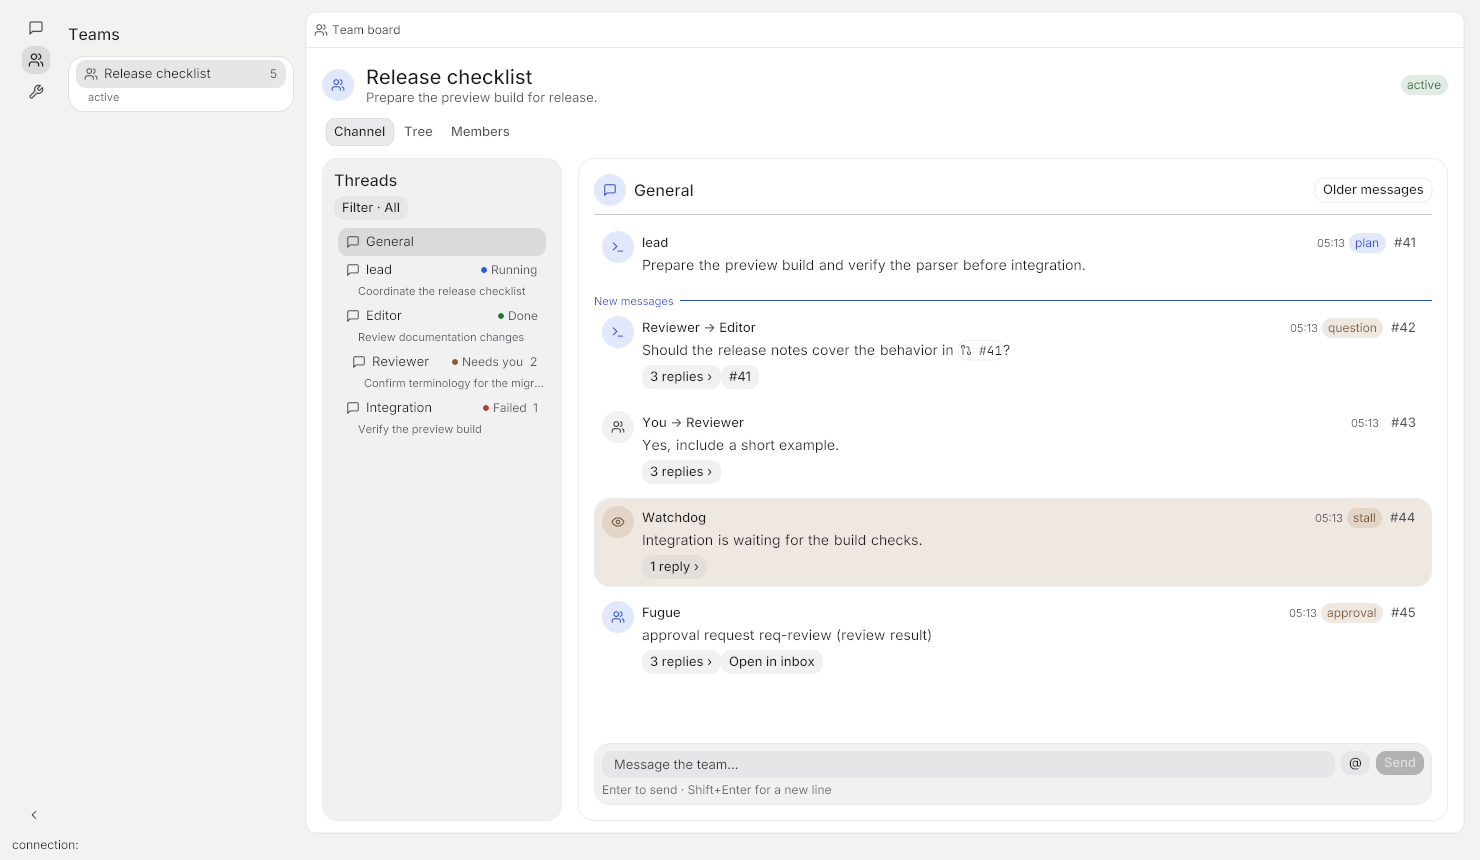
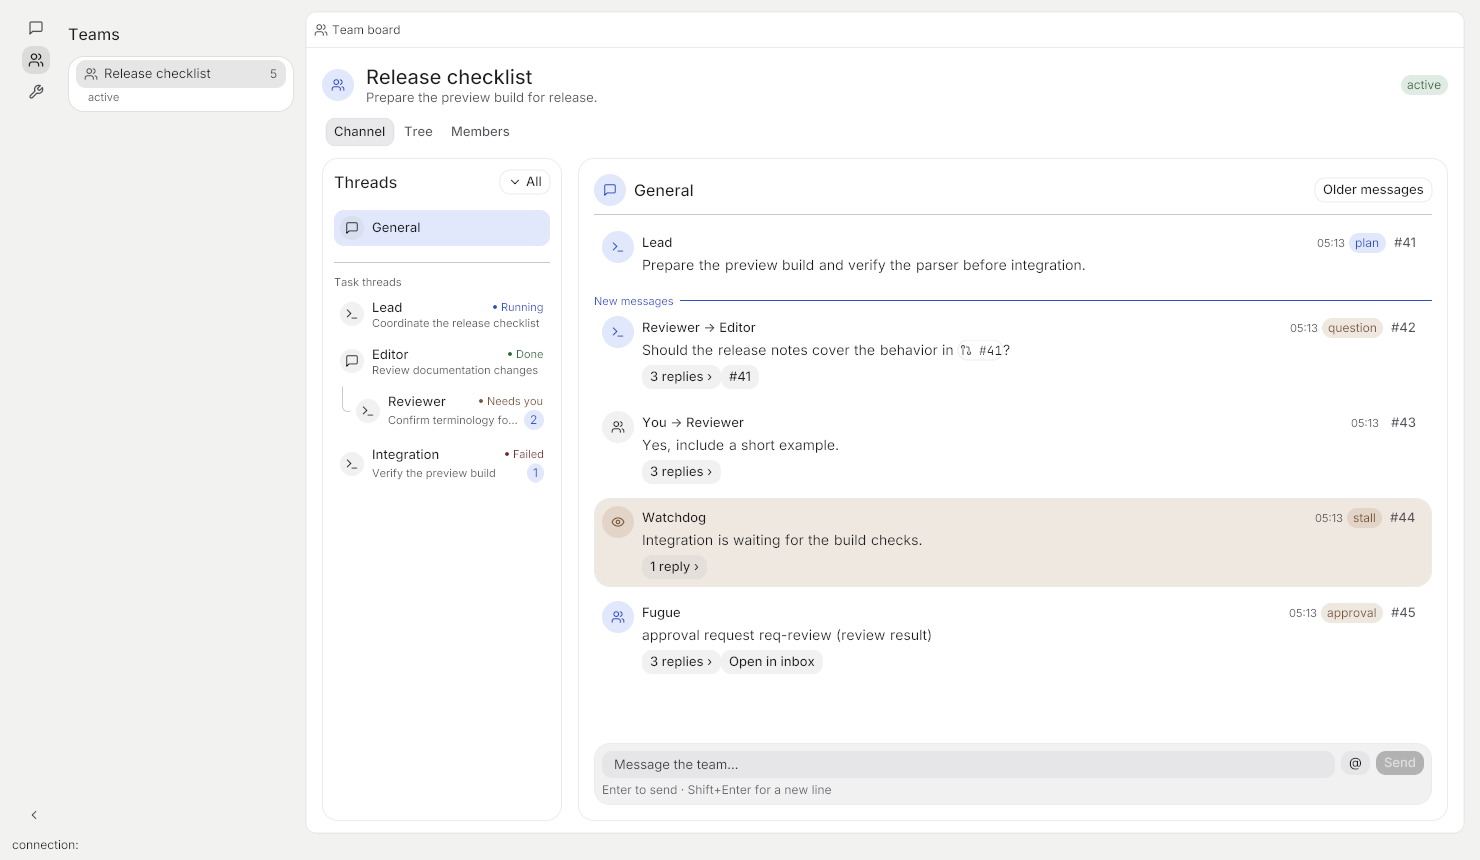
fix(ui): refine team threads and round tree connectors (FUG-19)

Changed region(s): [[0.2176, 0.2116, 0.373, 0.5442], [0.4351, 0.2721, 0.4662, 0.3023], [0.2797, 0.5442, 0.3108, 0.5744]]

diff --git a/ui/internal/appwin/team_channel_threads.go b/ui/internal/appwin/team_channel_threads.go
@@ -1,0 +1,196 @@
+package appwin
+
+import (
+	"image"
+	"slices"
+	"strconv"
+
+	"gioui.org/io/semantic"
+	"gioui.org/layout"
+	"gioui.org/op/clip"
+	"gioui.org/op/paint"
+	"gioui.org/unit"
+	"gioui.org/widget"
+
+	"github.com/syurodev/fugue/ui/internal/kit"
+	"github.com/syurodev/fugue/ui/internal/theme"
+)
+
+type channelThreadRowState struct {
+	click  widget.Clickable
+	unread *kit.TagState
+}
+
+func (s *screens) layoutChannelThreads(gtx *layout.Context, env *kit.Env, p *teamChannelPane, threads []teamChannelThread, data *teamChannelData) layout.Dimensions {
+	visible := slices.DeleteFunc(slices.Clone(threads), func(row teamChannelThread) bool {
+		return !filterChannelThread(p.filter, row.node.State)
+	})
+	return layout.Flex{Axis: layout.Vertical}.Layout(*gtx,
+		rigidWidget(func(g *layout.Context) layout.Dimensions { return s.layoutChannelThreadHeader(g, env, p) }),
+		spacerH(theme.SpaceXL),
+		rigidWidget(func(g *layout.Context) layout.Dimensions {
+			return s.layoutChannelThreadRow(g, env, p, teamChannelThread{}, data.unread[""])
+		}),
+		spacerH(theme.SpaceLG),
+		rigidWidget(func(g *layout.Context) layout.Dimensions {
+			return kit.Divider(env, g, kit.DividerProps{Orientation: kit.Horizontal})
+		}),
+		spacerH(theme.SpaceLG),
+		rigidParagraph(env, theme.TypeCaption(), env.Th.Chrome().FgMuted, "Task threads"),
+		spacerH(theme.SpaceXS),
+		layout.Flexed(1, func(g layout.Context) layout.Dimensions {
+			if len(visible) == 0 {
+				return teamText(&g, env, "No matching threads")
+			}
+			return p.threadList.Layout(g, len(visible), func(g layout.Context, i int) layout.Dimensions {
+				row := visible[i]
+				return s.layoutChannelThreadRow(&g, env, p, row, data.unread[row.id])
+			})
+		}),
+	)
+}
+
+func (s *screens) layoutChannelThreadHeader(gtx *layout.Context, env *kit.Env, p *teamChannelPane) layout.Dimensions {
+	return layout.Flex{Alignment: layout.Middle}.Layout(*gtx,
+		layout.Flexed(1, func(g layout.Context) layout.Dimensions {
+			return teamFillLabel(&g, env, theme.TypeHeading(), env.Th.Chrome().Fg, "Threads")
+		}),
+		rigidWidget(func(g *layout.Context) layout.Dimensions { return s.layoutChannelFilter(g, env, p) }),
+	)
+}
+
+func (s *screens) layoutChannelThreadRow(gtx *layout.Context, env *kit.Env, p *teamChannelPane, row teamChannelThread, unread int) layout.Dimensions {
+	state := p.threadRows[row.id]
+	if state == nil {
+		state = &channelThreadRowState{unread: kit.NewTagState()}
+		p.threadRows[row.id] = state
+	}
+	indent := theme.SpaceXL * unit.Dp(min(row.depth, 3))
+	dims := layout.Inset{Left: indent, Bottom: theme.SpaceXS}.Layout(*gtx, func(g layout.Context) layout.Dimensions {
+		g.Constraints.Min.X = g.Constraints.Max.X
+		if state.click.Clicked(g) {
+			p.switchThread(row.id)
+		}
+		selected := row.id == p.thread
+		return state.click.Layout(g, func(g layout.Context) layout.Dimensions {
+			semantic.Button.Add(g.Ops)
+			semantic.SelectedOp(selected).Add(g.Ops)
+			return s.layoutChannelThreadCard(&g, env, state, row, selected, unread)
+		})
+	})
+	if indent > 0 {
+		edge := gtx.Dp(indent)
+		paintTeamElbow(gtx, env.Th.Chrome().Border, edge-gtx.Dp(theme.SpaceMD), (dims.Size.Y-gtx.Dp(theme.SpaceXS))/2, edge)
+	}
+	return dims
+}
+
+func (s *screens) layoutChannelThreadCard(gtx *layout.Context, env *kit.Env, state *channelThreadRowState, row teamChannelThread, selected bool, unread int) layout.Dimensions {
+	bg := func(g layout.Context) layout.Dimensions {
+		ch := env.Th.Chrome()
+		bounds := image.Rectangle{Max: g.Constraints.Min}
+		shape := clip.UniformRRect(bounds, g.Dp(theme.RadiusMD))
+		switch {
+		case selected:
+			paint.FillShape(g.Ops, env.Th.StatusTone(theme.StatusInfo).Fill, shape.Op(g.Ops))
+		case state.click.Hovered():
+			paint.FillShape(g.Ops, ch.HoverWash, shape.Op(g.Ops))
+		}
+		if env.FocusVisible(&g, &state.click) {
+			paint.FillShape(g.Ops, ch.FocusBorder, clip.Stroke{Path: shape.Path(g.Ops), Width: float32(max(1, g.Dp(theme.Hairline)))}.Op())
+		}
+		return layout.Dimensions{Size: g.Constraints.Min}
+	}
+	return layout.Background{}.Layout(*gtx, bg, func(g layout.Context) layout.Dimensions {
+		return layout.Inset{Top: theme.SpaceSM, Bottom: theme.SpaceSM, Left: theme.SpaceSM, Right: theme.SpaceSM}.Layout(g, func(g layout.Context) layout.Dimensions {
+			return s.layoutChannelThreadContent(&g, env, state, row, unread)
+		})
+	})
+}
+
+func (s *screens) layoutChannelThreadContent(gtx *layout.Context, env *kit.Env, state *channelThreadRowState, row teamChannelThread, unread int) layout.Dimensions {
+	ch := env.Th.Chrome()
+	name, icon := channelGeneral, kit.IconMessageSquare
+	if row.node != nil {
+		name, icon = channelRole(row.node), teamVendorIcon(row.node.Vendor)
+	}
+	return layout.Flex{Alignment: layout.Middle}.Layout(*gtx,
+		rigidWidget(func(g *layout.Context) layout.Dimensions {
+			return teamAvatarAtSize(g, env, icon, env.Th.NeutralTone(), theme.ControlSM)
+		}),
+		spacerW(theme.SpaceMD),
+		layout.Flexed(1, func(g layout.Context) layout.Dimensions {
+			if row.node == nil {
+				return layout.Flex{Alignment: layout.Middle}.Layout(g,
+					layout.Flexed(1, func(g layout.Context) layout.Dimensions {
+						return teamFillLabel(&g, env, theme.TypeLabel(), ch.Fg, name)
+					}),
+					s.threadUnreadBadge(env, state, unread),
+				)
+			}
+			return s.layoutChannelTaskText(&g, env, state, row, unread)
+		}),
+	)
+}
+
+func (s *screens) layoutChannelTaskText(gtx *layout.Context, env *kit.Env, state *channelThreadRowState, row teamChannelThread, unread int) layout.Dimensions {
+	ch := env.Th.Chrome()
+	label, tone := channelThreadStatus(row.node.State)
+	return layout.Flex{Axis: layout.Vertical}.Layout(*gtx,
+		rigidWidget(func(g *layout.Context) layout.Dimensions {
+			return layout.Flex{Alignment: layout.Middle}.Layout(*g,
+				layout.Flexed(1, func(g layout.Context) layout.Dimensions {
+					return teamFillLabel(&g, env, theme.TypeLabel(), ch.Fg, channelRole(row.node))
+				}),
+				spacerW(theme.SpaceSM),
+				rigidWidget(func(g *layout.Context) layout.Dimensions { return layoutThreadStatusLabel(g, env, label, tone) }),
+			)
+		}),
+		rigidWidget(func(g *layout.Context) layout.Dimensions {
+			return layout.Flex{Alignment: layout.Middle}.Layout(*g,
+				layout.Flexed(1, func(g layout.Context) layout.Dimensions {
+					return teamFillLabel(&g, env, theme.TypeCaption(), ch.FgMuted, row.node.Goal)
+				}),
+				s.threadUnreadBadge(env, state, unread),
+			)
+		}),
+	)
+}
+
+func (s *screens) threadUnreadBadge(env *kit.Env, state *channelThreadRowState, unread int) layout.FlexChild {
+	return rigidWidget(func(g *layout.Context) layout.Dimensions {
+		if unread == 0 {
+			return layout.Dimensions{}
+		}
+		return layout.Inset{Left: theme.SpaceSM}.Layout(*g, func(g layout.Context) layout.Dimensions {
+			dims, err := state.unread.Layout(env, &g, kit.TagProps{Text: strconv.Itoa(unread), Variant: kit.TagStatus, Status: theme.StatusInfo})
+			s.fail(err)
+			return dims
+		})
+	})
+}
+
+func layoutThreadStatusLabel(gtx *layout.Context, env *kit.Env, label string, tone kit.ListRowTone) layout.Dimensions {
+	ink := env.Th.Chrome().IconMuted
+	switch tone {
+	case kit.ToneInfo:
+		ink = env.Th.StatusTone(theme.StatusInfo).Fg
+	case kit.ToneSuccess:
+		ink = env.Th.StatusTone(theme.StatusSuccess).Fg
+	case kit.ToneWarning:
+		ink = env.Th.StatusTone(theme.StatusWarning).Fg
+	case kit.ToneDanger:
+		ink = env.Th.StatusTone(theme.StatusDanger).Fg
+	case kit.ToneNeutral:
+	}
+	return layout.Flex{Alignment: layout.Middle}.Layout(*gtx,
+		layout.Rigid(func(g layout.Context) layout.Dimensions {
+			r := max(1, g.Dp(theme.SpaceXXS))
+			size := image.Pt(2*r, 2*r)
+			paint.FillShape(g.Ops, ink, clip.UniformRRect(image.Rectangle{Max: size}, r).Op(g.Ops))
+			return layout.Dimensions{Size: size}
+		}),
+		spacerW(theme.SpaceXS),
+		rigidParagraph(env, theme.TypeCaption(), ink, label),
+	)
+}

diff --git a/ui/internal/appwin/team_channel.go b/ui/internal/appwin/team_channel.go
@@ -7,10 +7,8 @@ import (
 	"strings"
 
 	"gioui.org/layout"
-	"gioui.org/op"
 	"gioui.org/op/clip"
 	"gioui.org/op/paint"
-	"gioui.org/unit"
 
 	"github.com/syurodev/fugue/pkg/client"
 
@@ -47,7 +45,7 @@ func (s *screens) layoutTeamChannel(gtx *layout.Context, env *kit.Env, view *cli
 		layout.Rigid(func(g layout.Context) layout.Dimensions {
 			g.Constraints.Max.X = min(g.Constraints.Max.X, g.Dp(theme.SidebarWidth))
 			g.Constraints.Min.X = g.Constraints.Max.X
-			return teamPanel(g, env, env.Th.Chrome().FillSoft, layout.UniformInset(theme.SpaceLG), func(g layout.Context) layout.Dimensions {
+			return teamPanel(g, env, env.Th.Chrome().SurfaceBase, layout.UniformInset(theme.SpaceLG), func(g layout.Context) layout.Dimensions {
 				g.Constraints.Min.Y = g.Constraints.Max.Y
 				return s.layoutChannelThreads(&g, env, p, threads, &data)
 			})
@@ -55,27 +53,6 @@ func (s *screens) layoutTeamChannel(gtx *layout.Context, env *kit.Env, view *cli
 		spacerW(theme.SpaceXL),
 		layout.Flexed(1, func(g layout.Context) layout.Dimensions {
 			return s.layoutChannelConversation(&g, env, view, p, threads, &data)
-		}),
-	)
-}
-
-func (s *screens) layoutChannelThreads(gtx *layout.Context, env *kit.Env, p *teamChannelPane, threads []teamChannelThread, data *teamChannelData) layout.Dimensions {
-	return layout.Flex{Axis: layout.Vertical}.Layout(*gtx,
-		rigidParagraph(env, theme.TypeHeading(), env.Th.Chrome().Fg, "Threads"),
-		spacerH(theme.SpaceSM),
-		rigidWidget(func(g *layout.Context) layout.Dimensions { return s.layoutChannelFilter(g, env, p) }),
-		spacerH(theme.SpaceMD),
-		rigidWidget(func(g *layout.Context) layout.Dimensions {
-			return s.layoutChannelThreadRow(g, env, p, teamChannelThread{}, data)
-		}),
-		layout.Flexed(1, func(g layout.Context) layout.Dimensions {
-			return p.threadList.Layout(g, len(threads), func(g layout.Context, i int) layout.Dimensions {
-				row := threads[i]
-				if !filterChannelThread(p.filter, row.node.State) {
-					return layout.Dimensions{}
-				}
-				return s.layoutChannelThreadRow(&g, env, p, row, data)
-			})
 		}),
 	)
 }
@@ -88,7 +65,10 @@ func (s *screens) layoutChannelFilter(gtx *layout.Context, env *kit.Env, p *team
 			label = item.Label
 		}
 	}
-	return s.layoutChannelMenu(gtx, env, p.filterButton, p.filterMenu, "Filter · "+label, choices, func(id string) { p.filter = id })
+	return s.layoutChannelMenu(gtx, env, p.filterButton, p.filterMenu, label, choices, func(id string) {
+		p.threadList.Position = layout.Position{}
+		p.filter = id
+	})
 }
 
 func (s *screens) layoutChannelThreadMenu(gtx *layout.Context, env *kit.Env, p *teamChannelPane, threads []teamChannelThread, data *teamChannelData) layout.Dimensions {
@@ -121,7 +101,7 @@ func (s *screens) layoutChannelThreadMenu(gtx *layout.Context, env *kit.Env, p *
 }
 
 func (s *screens) layoutChannelMenu(gtx *layout.Context, env *kit.Env, button *kit.ButtonState, menu *kit.MenuState, text string, items []kit.MenuItem, choose func(string)) layout.Dimensions {
-	props := kit.ButtonProps{Text: text, Size: kit.SizeSM}
+	props := kit.ButtonProps{Text: text, Icon: kit.IconChevronDown, Variant: kit.Bordered, Size: kit.SizeSM}
 	clicked, err := button.Layout(env, gtx, props)
 	s.fail(err)
 	dims := button.Measure(env, gtx, props)
@@ -134,40 +114,6 @@ func (s *screens) layoutChannelMenu(gtx *layout.Context, env *kit.Env, button *k
 		choose(event.Chosen)
 	}
 	return dims
-}
-
-func (s *screens) layoutChannelThreadRow(gtx *layout.Context, env *kit.Env, p *teamChannelPane, row teamChannelThread, data *teamChannelData) layout.Dimensions {
-	state := p.threadRows[row.id]
-	if state == nil {
-		state = kit.NewListRowState()
-		state.Enter()
-		p.threadRows[row.id] = state
-	}
-	props := kit.ListRowProps{Label: channelGeneral, Icon: kit.IconMessageSquare, Selected: row.id == p.thread}
-	if row.node != nil {
-		props.Label = channelRole(row.node)
-		props.StateLabel, props.StateTone = channelThreadStatus(row.node.State)
-	}
-	if unread := data.unread[row.id]; unread > 0 {
-		props.Trailing = strconv.Itoa(unread)
-	}
-	return layout.Inset{Left: theme.SpaceSM * unit.Dp(min(row.depth, 3))}.Layout(*gtx, func(g layout.Context) layout.Dimensions {
-		dims, ev := state.Layout(env, &g, &props)
-		s.fail(ev.Err)
-		if ev.Clicked {
-			p.switchThread(row.id)
-		}
-		if row.node == nil {
-			return dims
-		}
-		g.Constraints.Min.X = 0
-		offset := op.Offset(image.Pt(0, dims.Size.Y)).Push(g.Ops)
-		defer offset.Pop()
-		caption := layout.Inset{Left: theme.ControlSM, Right: theme.SpaceSM, Bottom: theme.SpaceXS}.Layout(g, func(g layout.Context) layout.Dimensions {
-			return kit.EllipsisLabel(env, &g, theme.TypeCaption(), env.Th.Chrome().FgMuted, row.node.Goal)
-		})
-		return layout.Dimensions{Size: image.Pt(dims.Size.X, dims.Size.Y+caption.Size.Y)}
-	})
 }
 
 func (s *screens) layoutChannelConversation(gtx *layout.Context, env *kit.Env, view *client.TeamView, p *teamChannelPane, threads []teamChannelThread, data *teamChannelData) layout.Dimensions {

diff --git a/ui/internal/appwin/team_surfaces.go b/ui/internal/appwin/team_surfaces.go
@@ -4,9 +4,11 @@ import (
 	"image"
 	"image/color"
 
+	"gioui.org/f32"
 	"gioui.org/layout"
 	"gioui.org/op/clip"
 	"gioui.org/op/paint"
+	"gioui.org/unit"
 
 	"github.com/syurodev/fugue/ui/internal/kit"
 	"github.com/syurodev/fugue/ui/internal/theme"
@@ -37,7 +39,11 @@ func paintTeamSurface(gtx *layout.Context, env *kit.Env, size image.Point, fill 
 }
 
 func teamAvatar(gtx *layout.Context, env *kit.Env, icon kit.IconName, tone theme.Tone) layout.Dimensions {
-	side := gtx.Dp(theme.ControlLG)
+	return teamAvatarAtSize(gtx, env, icon, tone, theme.ControlLG)
+}
+
+func teamAvatarAtSize(gtx *layout.Context, env *kit.Env, icon kit.IconName, tone theme.Tone, size unit.Dp) layout.Dimensions {
+	side := gtx.Dp(size)
 	gtx.Constraints = layout.Exact(image.Pt(side, side))
 	paint.FillShape(gtx.Ops, tone.Fill, clip.UniformRRect(image.Rectangle{Max: gtx.Constraints.Min}, side/2).Op(gtx.Ops))
 	return layout.Center.Layout(*gtx, func(g layout.Context) layout.Dimensions {
@@ -53,4 +59,22 @@ func teamFillLabel(gtx *layout.Context, env *kit.Env, style theme.Type, ink colo
 	dims := kit.EllipsisLabel(env, gtx, style, ink, text)
 	dims.Size.X = gtx.Constraints.Max.X
 	return dims
+}
+
+// paintTeamElbow shares the connector geometry between the tree and channel threads.
+func paintTeamElbow(gtx *layout.Context, ink color.NRGBA, spine, center, edge int) {
+	if center <= 0 || edge <= spine {
+		return
+	}
+	width := max(1, gtx.Dp(theme.Hairline))
+	radius := float32(min(gtx.Dp(theme.RadiusSM), center, edge-spine))
+	x := float32(spine) + float32(width)/2
+	y := float32(center) + float32(width)/2
+	var path clip.Path
+	path.Begin(gtx.Ops)
+	path.MoveTo(f32.Pt(x, 0))
+	path.LineTo(f32.Pt(x, y-radius))
+	path.QuadTo(f32.Pt(x, y), f32.Pt(x+radius, y))
+	path.LineTo(f32.Pt(float32(edge), y))
+	paint.FillShape(gtx.Ops, ink, clip.Stroke{Path: path.End(), Width: float32(width)}.Op())
 }

diff --git a/ui/internal/appwin/team_channel_state.go b/ui/internal/appwin/team_channel_state.go
@@ -29,7 +29,7 @@ type teamChannelPane struct {
 	thread, filter                     string
 	threadList                         layout.List
 	list                               layout.List
-	threadRows                         map[string]*kit.ListRowState
+	threadRows                         map[string]*channelThreadRowState
 	messageRows                        map[int64]*teamMessageRow
 	filterButton, older, threadsButton *kit.ButtonState
 	filterMenu, threadsMenu            *kit.MenuState
@@ -56,7 +56,7 @@ func newTeamChannelPane(lastRead map[string]int64) *teamChannelPane {
 	return &teamChannelPane{
 		threadList:   layout.List{Axis: layout.Vertical},
 		list:         layout.List{Axis: layout.Vertical, ScrollToEnd: true},
-		threadRows:   make(map[string]*kit.ListRowState),
+		threadRows:   make(map[string]*channelThreadRowState),
 		messageRows:  make(map[int64]*teamMessageRow),
 		filterButton: kit.NewButtonState(), older: kit.NewButtonState(),
 		threadsButton: kit.NewButtonState(),
@@ -224,6 +224,9 @@ func (d *teamChannelData) role(taskID string) string {
 }
 
 func channelRole(task *client.TaskNode) string {
+	if task.CatalogRole == "" && task.HierarchyRole == proposalRoleLead {
+		return "Lead"
+	}
 	return cmp.Or(task.CatalogRole, task.HierarchyRole, task.TaskID)
 }
 

diff --git a/ui/internal/appwin/team_tree.go b/ui/internal/appwin/team_tree.go
@@ -224,11 +224,9 @@ func paintTeamBranches(gtx *layout.Context, ink color.NRGBA, row teamTreeRow, in
 	}
 	right := indent * row.depth
 	x := right - indent/2
-	mid := height / 2
-	bottom := mid + hairline
+	mid := (height - gtx.Dp(theme.SpaceMD)) / 2
 	if row.sibling {
-		bottom = height
+		paint.FillShape(gtx.Ops, ink, clip.Rect(image.Rect(x, 0, x+hairline, height)).Op())
 	}
-	paint.FillShape(gtx.Ops, ink, clip.Rect(image.Rect(x, 0, x+hairline, bottom)).Op())
-	paint.FillShape(gtx.Ops, ink, clip.Rect(image.Rect(x, mid, right, mid+hairline)).Op())
+	paintTeamElbow(gtx, ink, x, mid, right)
 }
